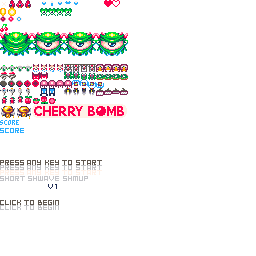
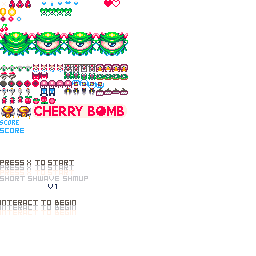
control audio manager init, fix start game bug, update a few text sprites

Changed region(s): [[0.0938, 0.625, 0.4062, 0.6875], [0.0, 0.7812, 0.3125, 0.8438]]

diff --git a/packages/examples2/src/demos/shmup/scenes/title-screen.ts b/packages/examples2/src/demos/shmup/scenes/title-screen.ts
@@ -25,24 +25,6 @@ export class TitleScreen extends Scene {
 
     this.#areaWidth = this.config.gameWidth - 1;
     this.#areaHeight = this.config.gameHeight - 1;
-
-    this.systems.push(
-      tweenSystemFactory({ world: this.world }),
-      starfieldSystemFactory({ world: this.world }),
-      startGameSystemFactory({ controls: this.input, scene: this }),
-      movementSystemFactory({ world: this.world }),
-      spriteAnimationSystemFactory({ world: this.world }),
-      eventSystemFactory({ world: this.world }),
-      starfieldRenderingSystemFactory({
-        world: this.world,
-        context: this.context,
-      }),
-      renderingSystemFactory({
-        world: this.world,
-        context: this.context,
-        spriteSheet: this.content.spritesheet,
-      }),
-    );
   }
 
   private createStars(starCount = 100) {
@@ -79,6 +61,25 @@ export class TitleScreen extends Scene {
     resetGameState(this.gameState);
     this.audioManager.play('title-screen-music', { loop: true });
     this.world.clearEntities();
+    this.systems = [];
+
+    this.systems.push(
+      tweenSystemFactory({ world: this.world }),
+      starfieldSystemFactory({ world: this.world }),
+      startGameSystemFactory({ controls: this.input, scene: this }),
+      movementSystemFactory({ world: this.world }),
+      spriteAnimationSystemFactory({ world: this.world }),
+      eventSystemFactory({ world: this.world }),
+      starfieldRenderingSystemFactory({
+        world: this.world,
+        context: this.context,
+      }),
+      renderingSystemFactory({
+        world: this.world,
+        context: this.context,
+        spriteSheet: this.content.spritesheet,
+      }),
+    );
 
     this.createStars(100);
 
@@ -179,22 +180,22 @@ export class TitleScreen extends Scene {
     this.world.createEntity({
       sprite: {
         frame: {
-          sourceX: this.spriteSheet.text.pressAnyKeyToStart.frame.sourceX,
-          sourceY: this.spriteSheet.text.pressAnyKeyToStart.frame.sourceY,
-          width: this.spriteSheet.text.pressAnyKeyToStart.frame.width,
-          height: this.spriteSheet.text.pressAnyKeyToStart.frame.height,
+          sourceX: this.spriteSheet.text.pressXToStart.frame.sourceX,
+          sourceY: this.spriteSheet.text.pressXToStart.frame.sourceY,
+          width: this.spriteSheet.text.pressXToStart.frame.width,
+          height: this.spriteSheet.text.pressXToStart.frame.height,
         },
         opacity: 1,
       },
       spriteAnimation: spriteAnimationFactory(
         animationDetailsFactory(
           'press-x-to-start-blink',
-          this.spriteSheet.text.pressAnyKeyToStart.animations.blink.sourceX,
-          this.spriteSheet.text.pressAnyKeyToStart.animations.blink.sourceY,
-          this.spriteSheet.text.pressAnyKeyToStart.animations.blink.width,
-          this.spriteSheet.text.pressAnyKeyToStart.animations.blink.height,
-          this.spriteSheet.text.pressAnyKeyToStart.animations.blink.frameWidth,
-          this.spriteSheet.text.pressAnyKeyToStart.animations.blink.frameHeight,
+          this.spriteSheet.text.pressXToStart.animations.blink.sourceX,
+          this.spriteSheet.text.pressXToStart.animations.blink.sourceY,
+          this.spriteSheet.text.pressXToStart.animations.blink.width,
+          this.spriteSheet.text.pressXToStart.animations.blink.height,
+          this.spriteSheet.text.pressXToStart.animations.blink.frameWidth,
+          this.spriteSheet.text.pressXToStart.animations.blink.frameHeight,
         ),
         500,
         true,
@@ -204,7 +205,7 @@ export class TitleScreen extends Scene {
         position: {
           x:
             this.canvas.width / 2 -
-            this.spriteSheet.text.pressAnyKeyToStart.frame.width / 2,
+            this.spriteSheet.text.pressXToStart.frame.width / 2,
           y: 90,
         },
       }),

diff --git a/packages/examples2/src/demos/shmup/scenes/loading-screen.ts b/packages/examples2/src/demos/shmup/scenes/loading-screen.ts
@@ -13,7 +13,6 @@ import { renderingSystemFactory } from '../systems/rendering-system.js';
 import { spriteAnimationSystemFactory } from '../systems/sprite-animation-system.js';
 import { starfieldRenderingSystemFactory } from '../systems/starfield-rendering-system.js';
 import { starfieldSystemFactory } from '../systems/starfield-system.js';
-import { startGameSystemFactory } from '../systems/start-game-system.js';
 import { tweenSystemFactory } from '../systems/tweens-system.js';
 
 export class LoadingScreen extends Scene {
@@ -29,7 +28,6 @@ export class LoadingScreen extends Scene {
     this.systems.push(
       tweenSystemFactory({ world: this.world }),
       starfieldSystemFactory({ world: this.world }),
-      startGameSystemFactory({ controls: this.input, scene: this }),
       movementSystemFactory({ world: this.world }),
       spriteAnimationSystemFactory({ world: this.world }),
       eventSystemFactory({ world: this.world }),
@@ -178,22 +176,22 @@ export class LoadingScreen extends Scene {
     this.world.createEntity({
       sprite: {
         frame: {
-          sourceX: this.spriteSheet.text.clickToBegin.frame.sourceX,
-          sourceY: this.spriteSheet.text.clickToBegin.frame.sourceY,
-          width: this.spriteSheet.text.clickToBegin.frame.width,
-          height: this.spriteSheet.text.clickToBegin.frame.height,
+          sourceX: this.spriteSheet.text.interactToBegin.frame.sourceX,
+          sourceY: this.spriteSheet.text.interactToBegin.frame.sourceY,
+          width: this.spriteSheet.text.interactToBegin.frame.width,
+          height: this.spriteSheet.text.interactToBegin.frame.height,
         },
         opacity: 1,
       },
       spriteAnimation: spriteAnimationFactory(
         animationDetailsFactory(
           'press-x-to-start-blink',
-          this.spriteSheet.text.clickToBegin.animations.blink.sourceX,
-          this.spriteSheet.text.clickToBegin.animations.blink.sourceY,
-          this.spriteSheet.text.clickToBegin.animations.blink.width,
-          this.spriteSheet.text.clickToBegin.animations.blink.height,
-          this.spriteSheet.text.clickToBegin.animations.blink.frameWidth,
-          this.spriteSheet.text.clickToBegin.animations.blink.frameHeight,
+          this.spriteSheet.text.interactToBegin.animations.blink.sourceX,
+          this.spriteSheet.text.interactToBegin.animations.blink.sourceY,
+          this.spriteSheet.text.interactToBegin.animations.blink.width,
+          this.spriteSheet.text.interactToBegin.animations.blink.height,
+          this.spriteSheet.text.interactToBegin.animations.blink.frameWidth,
+          this.spriteSheet.text.interactToBegin.animations.blink.frameHeight,
         ),
         500,
         true,
@@ -203,7 +201,7 @@ export class LoadingScreen extends Scene {
         position: {
           x:
             this.canvas.width / 2 -
-            this.spriteSheet.text.clickToBegin.frame.width / 2,
+            this.spriteSheet.text.interactToBegin.frame.width / 2,
           y: 90,
         },
       }),

diff --git a/packages/examples2/src/demos/shmup/spritesheet.ts b/packages/examples2/src/demos/shmup/spritesheet.ts
@@ -199,20 +199,20 @@ export const SpriteSheet = {
       },
     },
 
-    clickToBegin: {
+    interactToBegin: {
       frame: {
         sourceX: 0,
         sourceY: 200,
-        width: 59,
+        width: 76,
         height: 5,
       },
       animations: {
         blink: {
           sourceX: 0,
           sourceY: 200,
-          width: 59,
+          width: 76,
           height: 15,
-          frameWidth: 59,
+          frameWidth: 76,
           frameHeight: 5,
         },
       },
@@ -247,20 +247,20 @@ export const SpriteSheet = {
         height: 5,
       },
     },
-    pressAnyKeyToStart: {
+    pressXToStart: {
       frame: {
         sourceX: 0,
         sourceY: 160,
-        width: 102,
+        width: 74,
         height: 5,
       },
       animations: {
         blink: {
           sourceX: 0,
           sourceY: 160,
-          width: 102,
+          width: 74,
           height: 15,
-          frameWidth: 102,
+          frameWidth: 74,
           frameHeight: 5,
         },
       },

diff --git a/packages/examples2/src/lib/audio-manager.ts b/packages/examples2/src/lib/audio-manager.ts
@@ -31,12 +31,15 @@ export class AudioManager {
   #emitter = new EventEmitter<AudioManagerEvents>();
   #muted = false;
 
-  constructor() {
-    window.addEventListener('click', this.#windowClickListener);
-    window.addEventListener('keypress', this.#windowClickListener);
+  public get muted() {
+    return this.#muted;
   }
 
-  #windowClickListener = async () => {
+  public get isInitialized() {
+    return this.#audioContext != null;
+  }
+
+  public async init() {
     if (this.#audioContext == null) {
       this.#audioContext = new AudioContext();
       this.#gainNode = this.#audioContext.createGain();
@@ -54,13 +57,6 @@ export class AudioManager {
     this.#preloaded.clear();
 
     this.emit(AudioMangerEvent.Ready);
-
-    window.removeEventListener('click', this.#windowClickListener);
-    window.removeEventListener('keypress', this.#windowClickListener);
-  };
-
-  public get muted() {
-    return this.#muted;
   }
 
   public on(event: AudioMangerEvent, listener: AudioManagerEventListener) {

diff --git a/packages/examples2/src/demos/shmup/main.ts b/packages/examples2/src/demos/shmup/main.ts
@@ -108,7 +108,17 @@ gameoverScene.on(GameEvent.StartGame, () => {
 let activeScene: Scene = loadingScreenScene;
 activeScene.enter();
 
-window.addEventListener('keypress', (e: KeyboardEvent) => {
+window.addEventListener('click', async () => {
+  if (!audioManager.isInitialized) {
+    audioManager.init();
+  }
+});
+
+window.addEventListener('keypress', async (e: KeyboardEvent) => {
+  if (!audioManager.isInitialized) {
+    await audioManager.init();
+  }
+
   if (e.key === 'r') {
     if (recorder.recording) {
       recorder.frames?.generateAsync({ type: 'blob' }).then((content) => {

diff --git a/packages/examples2/src/demos/shmup/systems/start-game-system.ts b/packages/examples2/src/demos/shmup/systems/start-game-system.ts
@@ -9,6 +9,11 @@ export function startGameSystemFactory({
   controls: Controls;
   scene: Scene;
 }) {
+  // Swallow the first press of the confirm button.
+  // This is to prevent the game from starting immediately if the input
+  // query still reads as true from the previous scene.
+  controls.confirm.query();
+
   return (_dt: number) => {
     if (controls.confirm.query()) {
       scene.emit(GameEvent.StartGame);
